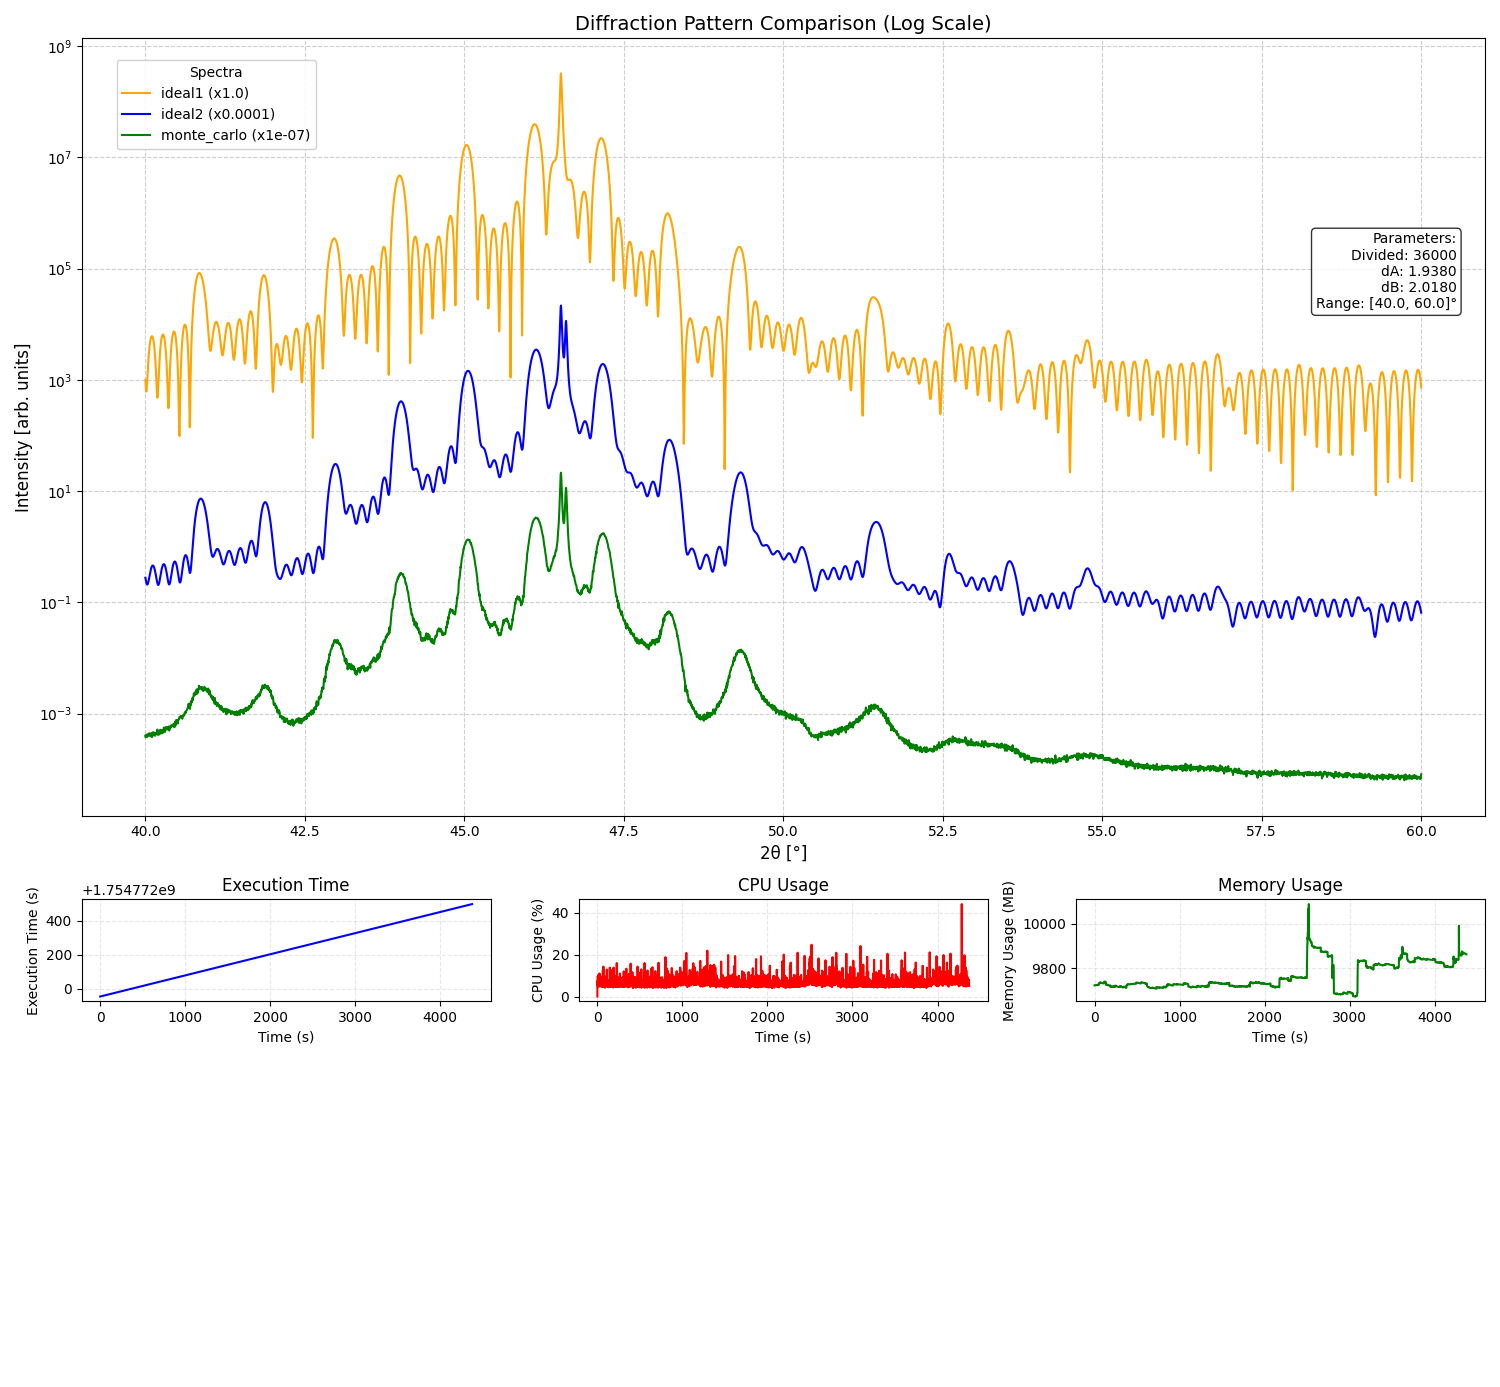
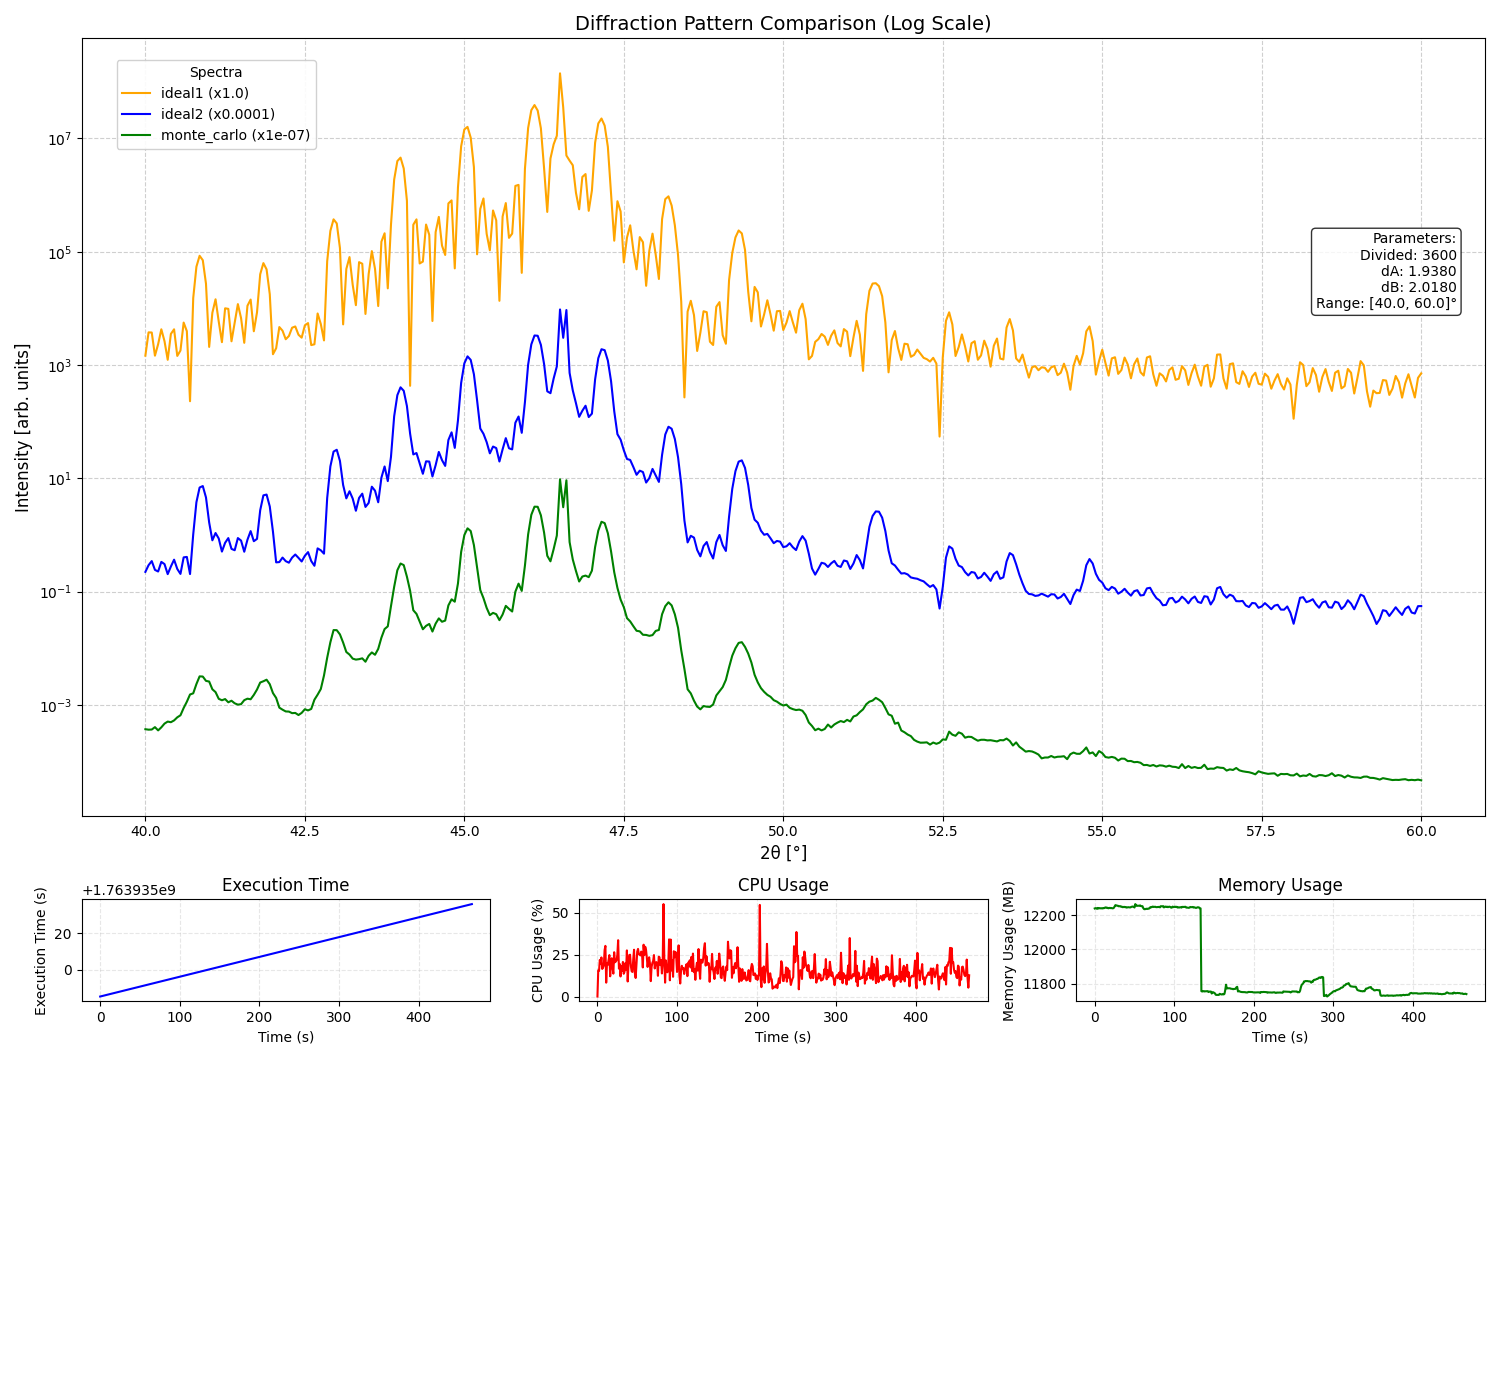
readme changes

diff --git a/x_ray_spectra_gen.py b/x_ray_spectra_gen.py
@@ -78,7 +78,7 @@ def monitor_resources(exec_times, cpu_usages, memory_usages, stop_event):
         memory_usages.append(psutil.virtual_memory().used / (1024 * 1024))  # MB
         time.sleep(0.1) #every 0.1s
 
-def geo_intensity(divided, minTheta, angleLimit, extMinTh, extMaxTh, dA, dB, divider, select_version, dSubs, dBuff, nSubs, nBuff, nA, mB, nRepeat, buffer_enabled=True, LSMO=True, fSubs1='Sr', fSubs2='Ti', fSubs3='O', fBuff1='Sr', fBuff2='Ru', fBuff3='O', fA1a='La', fA1b='Sr', fA2='Mn', fA3='O', fB1='Ba', fB2='Ti', fB3='O'):
+def geo_intensity(divided, minTheta, angleLimit, extMinTh, extMaxTh, dA, dB, divider, select_version, dSubs, dBuff, nSubs, nBuff, nA, mB, nRepeat, buffer_enabled=True, LSMO=True, fSubs1='Sr', fSubs2='Ti', fSubs3='O', fBuff1='Sr', fBuff2='Ti', fBuff3='O', fA1a='La', fA1b='Sr', fA2='Mn', fA3='O', fB1='Ba', fB2='Ti', fB3='O'):
 
     fSubs = [0.0] * 3
     fBuff = [0.0] * 3
@@ -430,7 +430,7 @@ def parse_arguments():
     parser.add_argument('--fSubs2', type=str, default='Ti', help='Substrate element 2')
     parser.add_argument('--fSubs3', type=str, default='O', help='Substrate element 3')
     parser.add_argument('--fBuff1', type=str, default='Sr', help='Buffer element 1')
-    parser.add_argument('--fBuff2', type=str, default='Ru', help='Buffer element 2')
+    parser.add_argument('--fBuff2', type=str, default='Ti', help='Buffer element 2')
     parser.add_argument('--fBuff3', type=str, default='O', help='Buffer element 3')
     parser.add_argument('--fA1a', type=str, default='La', help='A-site element 1a')
     parser.add_argument('--fA1b', type=str, default='Sr', help='A-site element 1b')

diff --git a/README.md b/README.md
@@ -46,14 +46,14 @@ Example with full parameterization:
 
 ```commandline
 python x_ray_spectra_gen.py \
-  --extMinTh 20 --extMaxTh 80 \
-  --divided 1000 --minTheta 0.0 --angleLimit 90.0 \
+  --extMinTh 40 --extMaxTh 60 \
+  --divided 3600 --minTheta 0.0 --angleLimit 90.0 \
   --dA 1.938 --dB 2.018 --dSubs 1.9525 --dBuff 1.98 \
-  --nSubs 20000 --nBuff 0 --nA 14 --nB 9 --nRepeat 6 \
+  --nSubs 20000 --nBuff 0 --nA 14 --mB 9 --nRepeat 6 \
   --select_version "ideal1 ideal2 monte_carlo" \
   --buffer_enabled False --LSMO True \
   --fSubs1 "Sr" --fSubs2 "Ti" --fSubs3 "O" \
-  --fBuff1 "Sr" --fBuff2 "Ru" --fBuff3 "O" \
+  --fBuff1 "Sr" --fBuff2 "Ti" --fBuff3 "O" \
   --fA1a "La" --fA1b "Sr" --fA2 "Mn" --fA3 "O" \
   --fB1 "Ba" --fB2 "Ti" --fB3 "O"
 ```
@@ -70,7 +70,7 @@ python x_ray_spectra_gen.py \
 ## ⚙ Arguments
 
 | Flag                                 | Type  | Description                                                     |
-| ------------------------------------ | ----- | --------------------------------------------------------------- |
+| ------------------------------------ | ----- |-----------------------------------------------------------------|
 | `--divided`                          | int   | Number of angle divisions (default: 3600)                       |
 | `--minTheta`                         | float | Minimum theta (°) (default: 0.0)                                |
 | `--angleLimit`                       | float | Maximum theta (°) (default: 90.0)                               |
@@ -91,7 +91,7 @@ python x_ray_spectra_gen.py \
 | `--buffer_enabled`                   | bool  | Enable buffer layer (default: True)                             |
 | `--LSMO`                             | bool  | Use LSMO composition (default: True)                            |
 | `--fSubs1`–`--fSubs3`                | str   | Elements in substrate (default: Sr, Ti, O)                      |
-| `--fBuff1`–`--fBuff3`                | str   | Elements in buffer (default: Sr, Ru, O)                         |
+| `--fBuff1`–`--fBuff3`                | str   | Elements in buffer (default: Sr, Ti, O)                         |
 | `--fA1a`, `--fA1b`, `--fA2`, `--fA3` | str   | Elements in A-site                                              |
 | `--fB1`, `--fB2`, `--fB3`            | str   | Elements in B-site                                              |
 
